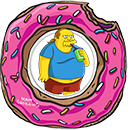
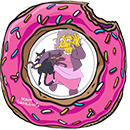
#Fixes 11 Cada perfil tem o seu inimigo. E imagem de fundo já mudava consoante a sala. Alterado imagens dos perfis para mostrar a letra do perfil e perfis alterados para estarem mais de acordo com o personagem. O Nerd agora é o que tem menos força, o Gordo o que tem mais vida. No combate agora mostr

Changed region(s): [[0.1846, 0.1846, 0.7077, 0.7385]]

diff --git a/SetepassosPRJ/wwwroot/css/site.css b/SetepassosPRJ/wwwroot/css/site.css
@@ -382,6 +382,25 @@ h4 {
     left: 20%;
     width:70%;
 }
+.danoNoMonstro {
+    position:relative;
+    left: 32%;
+    top:4%;
+    color:lavender;
+    font-family: Verdana;
+    font-size: 1.7vw;
+    display: inline-block;
+    font-weight: bold;
+}
+.danoNoJogador {
+    position: relative;
+    right:40%;
+    color:crimson;
+    font-family: Verdana;
+    font-size: 1.7vw;
+    display: inline-block;
+    font-weight: bold;
+}
 .imagemgatopreto {
     position: fixed;
     top: 60%;

diff --git a/SetepassosPRJ/Models/Jogo.cs b/SetepassosPRJ/Models/Jogo.cs
@@ -237,7 +237,7 @@ namespace SetepassosPRJ.Models
                     //Mensagem ataque personalizada
                     if (PerfilTipo == "S")
                     {
-                        MensagemMeuAtaque = "Mandaste uma bufa...";
+                        MensagemMeuAtaque = "Deste um arroto mortífero...";
                     }
                     if (PerfilTipo == "B")
                     {
@@ -448,7 +448,7 @@ namespace SetepassosPRJ.Models
                 PontosVida = PontosVida - nGS.EnemyDamageSuffered;
                 MensagemVidaNeg = "-" + Convert.ToString(nGS.EnemyDamageSuffered);
                 LeveiDano = true;
-                if (nGS.EnemyDamageSuffered < 2)
+                if (nGS.EnemyDamageSuffered <=1)
                 {
                     MensagemAccaoMonstro = MensagemAccaoMonstro + " O inimigo acertou-te de raspão! ";
                 }
